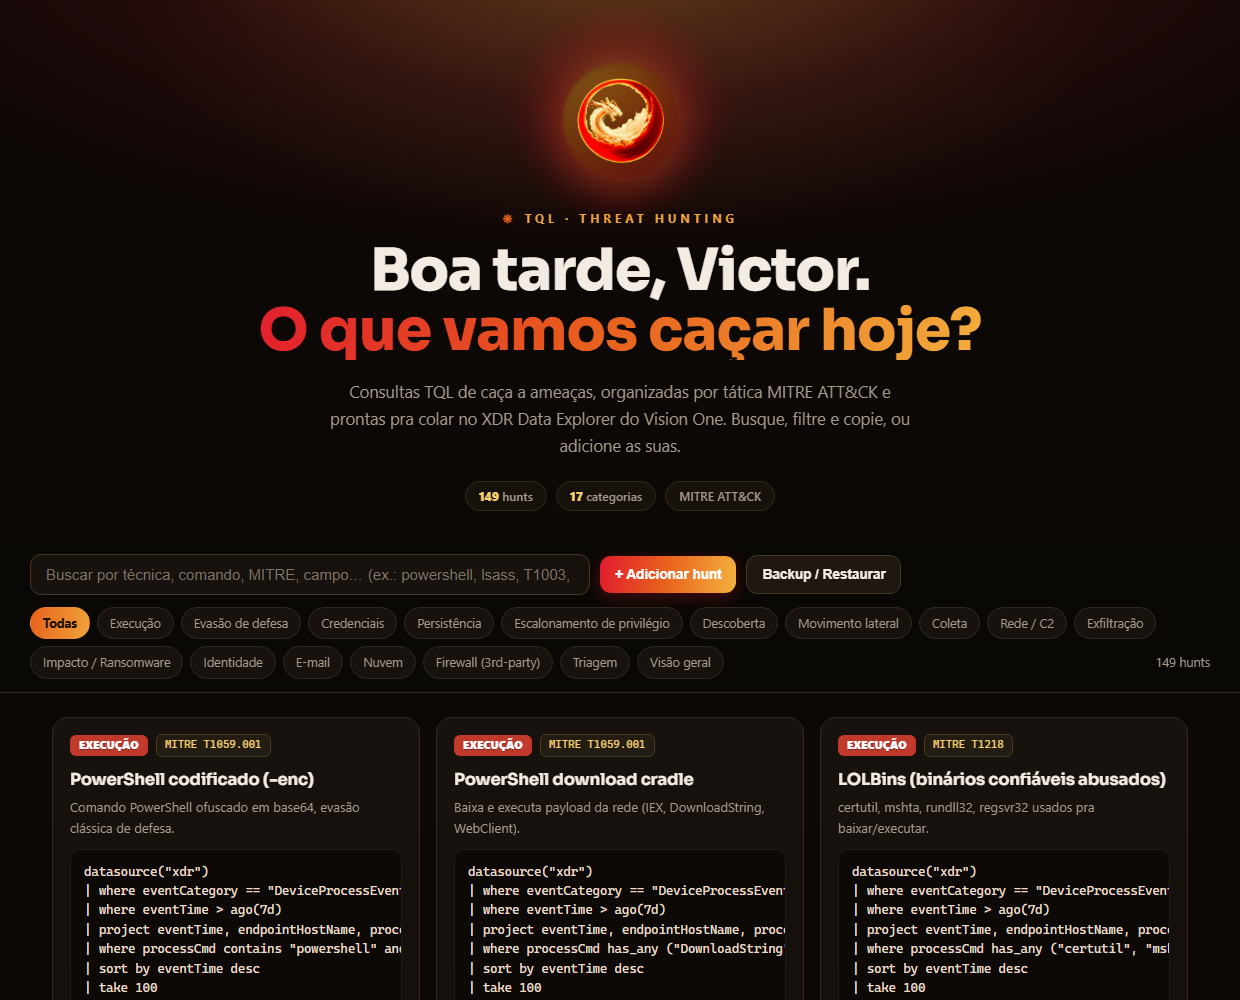
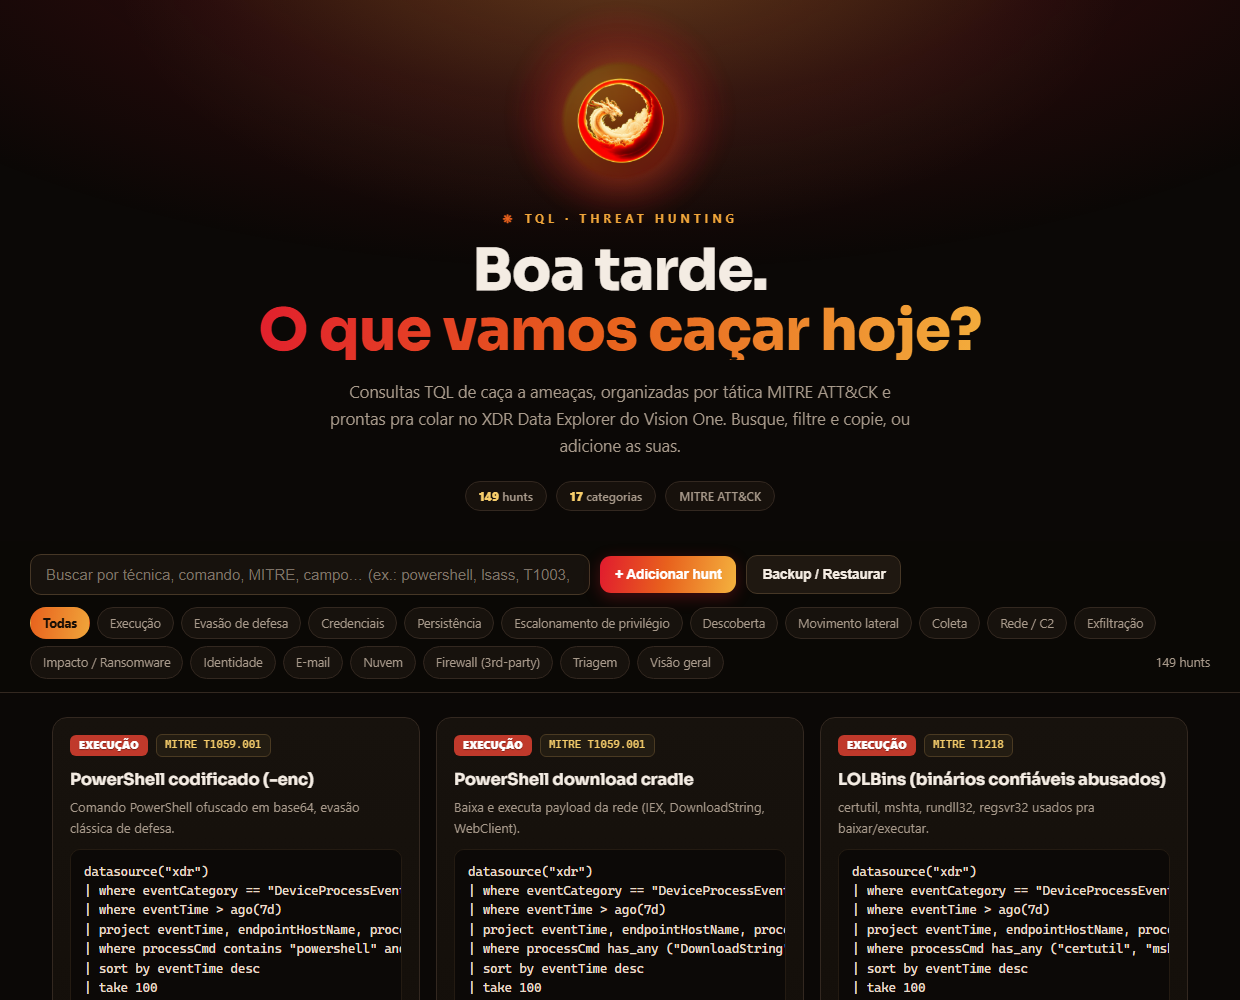
fix(painel): saudacao sem nome fixo (so horario dinamico) para uso do time

Changed region(s): [[0.2758, 0.248, 0.7048, 0.31]]

diff --git a/painel/tql-threat-hunting.html b/painel/tql-threat-hunting.html
@@ -174,7 +174,7 @@
[1 lines of base64/hex data omitted]
   </div>
   <div class="overline"><span class="spark">&#10059;</span> TQL &middot; Threat Hunting</div>
-  <h1 class="title"><span class="g1" id="greet">Boa tarde, Victor.</span><span class="g2">O que vamos ca&ccedil;ar hoje?</span></h1>
+  <h1 class="title"><span class="g1" id="greet">Boa tarde.</span><span class="g2">O que vamos ca&ccedil;ar hoje?</span></h1>
   <p class="lede">Consultas TQL de ca&ccedil;a a amea&ccedil;as, organizadas por t&aacute;tica MITRE ATT&amp;CK e prontas pra colar no XDR Data Explorer do Vision One. Busque, filtre e copie, ou adicione as suas.</p>
   <div class="meta">
     <span class="pill"><b id="statHunts">149</b> hunts</span>
@@ -428,7 +428,7 @@ render();
 (function(){
   var h=new Date().getHours();
   var g=h<12?"Bom dia":(h<18?"Boa tarde":"Boa noite");
-  var el=document.getElementById("greet"); if(el)el.textContent=g+", Victor.";
+  var el=document.getElementById("greet"); if(el)el.textContent=g+".";
   var sh=document.getElementById("statHunts"); if(sh)sh.textContent=HUNTS.length;
   var sc=document.getElementById("statCats"); if(sc)sc.textContent=new Set(HUNTS.map(function(x){return x.cat})).size;
 })();
